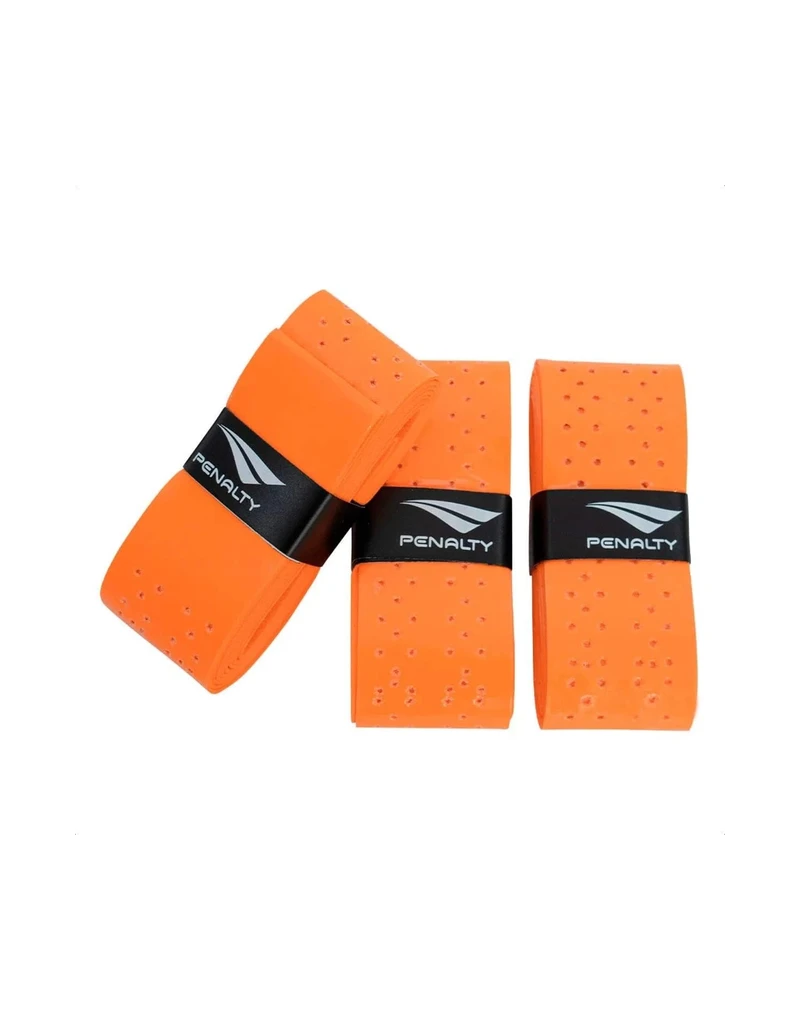
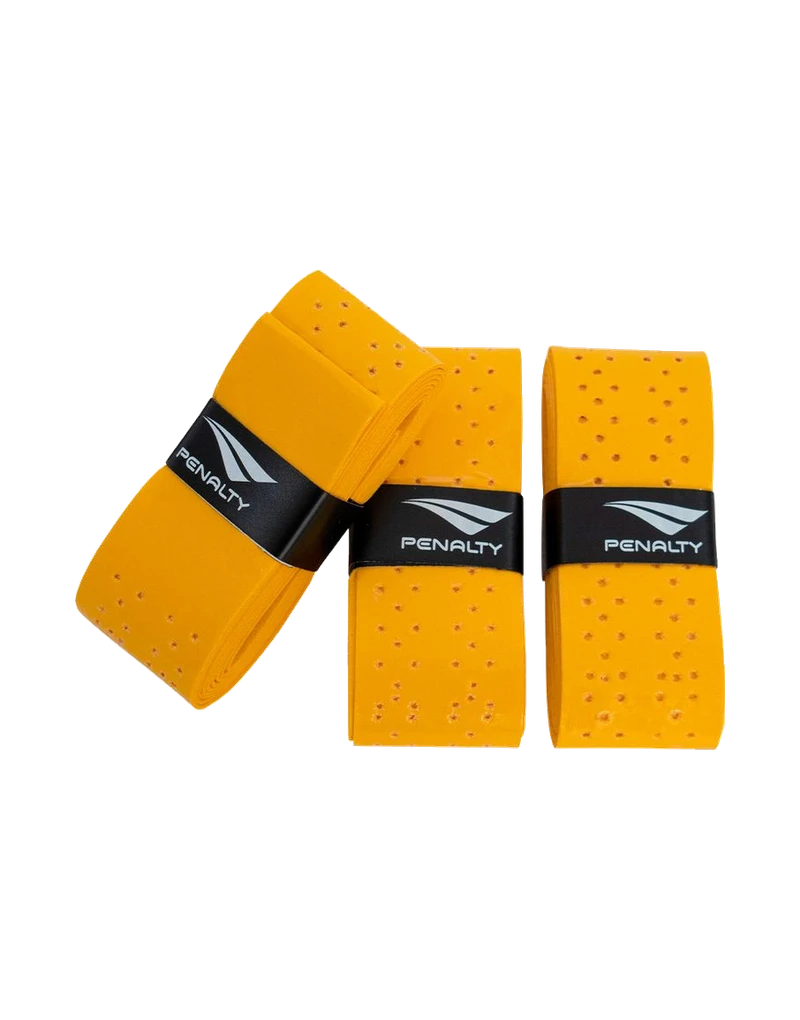
feat(grips): adiciona radar de 3 eixos "Perfil estimado" em /grips/[slug] v0.4.254
GripRadar (Aderencia/Absorcao/Conforto) derivado de tipo + espessura_mm via
formula fixa e documentada no codigo — nao e o motor (calcularMotor() nao
existe pra grips, decisao ja tomada). So calcula e mostra quando os 2 inputs
existem; material nao entra na formula (sem coeficiente real pra isso).

Troca tambem a imagem do Penalty pela foto oficial do site da marca
(penalty.com.br), substituindo a da Amazon usada antes — achado da segunda
passada de pesquisa dos gaps (TBT/Mormaii/Tourna/Penalty).

Changed region(s): [[0.0938, 0.2431, 0.9062, 0.7598]]

diff --git a/components/GripRadar.tsx b/components/GripRadar.tsx
@@ -1,0 +1,111 @@
+const LABELS = ['Aderência', 'Absorção', 'Conforto']
+const COLOR = '#0CC0BE'
+const CX = 130, CY = 130, R = 82, LABEL_R = 112, DOT_R = 8
+const ANGLES = [-90, 30, 150].map(d => (d * Math.PI) / 180)
+const RINGS = [0.25, 0.5, 0.75, 1]
+
+function pt(angle: number, r: number): [number, number] {
+  return [CX + r * Math.cos(angle), CY + r * Math.sin(angle)]
+}
+
+function polyPoints(scores: number[]): string {
+  return scores
+    .map((v, i) => {
+      const [x, y] = pt(ANGLES[i], (v / 10) * R)
+      return `${x.toFixed(1)},${y.toFixed(1)}`
+    })
+    .join(' ')
+}
+
+interface Props {
+  aderencia: number
+  absorcao: number
+  conforto: number
+}
+
+// Radar de 3 eixos pra grips — irmão mais simples do RacketHexagon (6 eixos,
+// scores do motor). Aqui os 3 valores vêm de uma formula documentada (tipo +
+// espessura_mm), não de um motor de verdade — por isso sem o selo de "score
+// forte"/estrela do hexágono de raquete, que implica comparação com o resto
+// do catálogo. O rótulo "Perfil estimado" (no caller) já deixa isso claro.
+export default function GripRadar({ aderencia, absorcao, conforto }: Props) {
+  const scores = [aderencia, absorcao, conforto]
+  const polyPts = polyPoints(scores)
+
+  return (
+    <div className="w-full flex justify-center">
+      <svg viewBox="0 0 260 260" className="w-full max-w-[220px]" overflow="visible" aria-hidden="true">
+        {RINGS.map(frac => (
+          <polygon
+            key={frac}
+            points={ANGLES.map(a => {
+              const [x, y] = pt(a, frac * R)
+              return `${x.toFixed(1)},${y.toFixed(1)}`
+            }).join(' ')}
+            fill="none"
+            stroke="#0E3A40"
+            strokeOpacity={frac === 1 ? 0.14 : 0.07}
+            strokeWidth={frac === 1 ? 1 : 0.75}
+          />
+        ))}
+
+        {ANGLES.map((angle, i) => {
+          const [x, y] = pt(angle, R)
+          return (
+            <line
+              key={i}
+              x1={CX} y1={CY} x2={x} y2={y}
+              stroke="#0E3A40" strokeOpacity={0.08} strokeWidth={0.75}
+            />
+          )
+        })}
+
+        <polygon
+          points={polyPts}
+          fill={COLOR}
+          fillOpacity={0.18}
+          stroke={COLOR}
+          strokeWidth={2}
+          strokeLinejoin="round"
+        />
+
+        {scores.map((v, i) => {
+          const [x, y] = pt(ANGLES[i], (v / 10) * R)
+          return (
+            <g key={i}>
+              <circle cx={x} cy={y} r={DOT_R} fill="white" stroke={COLOR} strokeWidth={1.75} />
+              <text
+                x={x} y={y}
+                textAnchor="middle"
+                dominantBaseline="middle"
+                fontSize={8}
+                fontWeight="800"
+                fill={COLOR}
+              >
+                {v}
+              </text>
+            </g>
+          )
+        })}
+
+        {ANGLES.map((angle, i) => {
+          const [x, y] = pt(angle, LABEL_R)
+          const anchor = x < CX - 8 ? 'end' : x > CX + 8 ? 'start' : 'middle'
+          return (
+            <text
+              key={i}
+              x={x} y={y}
+              textAnchor={anchor}
+              dominantBaseline="middle"
+              fontSize={10}
+              fill="#0E3A40"
+              fillOpacity={0.6}
+            >
+              {LABELS[i]}
+            </text>
+          )
+        })}
+      </svg>
+    </div>
+  )
+}

diff --git a/app/grips/[slug]/page.tsx b/app/grips/[slug]/page.tsx
@@ -4,6 +4,7 @@ import { getSupabaseAdmin } from '@/lib/supabase'
 import { getGripDisplayName } from '@/lib/displayName'
 import SiteNav from '@/components/SiteNav'
 import RacketImageTile from '@/components/RacketImageTile'
+import GripRadar from '@/components/GripRadar'
 
 // Preview de design para Rodrigo revisar o layout público antes de decidir o
 // resto da estratégia de grips (publicação, cross-sell, affiliate_url). Por
@@ -62,6 +63,28 @@ const TIPO_LABEL: Record<string, string> = {
   texturizado: 'Texturizado',
 }
 
+// Radar "Perfil estimado" — NÃO é o motor (calcularMotor() não existe pra
+// grips, decisão já tomada de não construir um). É uma fórmula fixa e
+// documentada com só 2 inputs reais (tipo, espessura_mm), sem usar material
+// como input numérico (não temos coeficiente real de absorção/conforto por
+// material — usar isso seria inventar dado). Só calcula/mostra quando os 2
+// inputs existem; nunca estima o que falta.
+const ADERENCIA_BY_TIPO: Record<string, number> = { tacky: 9, texturizado: 6, dry: 4 }
+const ABSORCAO_BY_TIPO:  Record<string, number> = { tacky: 4, texturizado: 7, dry: 9 }
+
+function confortoFromEspessura(espessuraMm: number): number {
+  const raw = 1 + ((espessuraMm - 0.4) / 0.6) * 9
+  return Math.round(Math.min(10, Math.max(1, raw)))
+}
+
+function buildRadarScores(grip: GripDetail): { aderencia: number; absorcao: number; conforto: number } | null {
+  if (!grip.tipo || grip.espessura_mm == null) return null
+  const aderencia = ADERENCIA_BY_TIPO[grip.tipo]
+  const absorcao = ABSORCAO_BY_TIPO[grip.tipo]
+  if (aderencia == null || absorcao == null) return null
+  return { aderencia, absorcao, conforto: confortoFromEspessura(grip.espessura_mm) }
+}
+
 interface SpecRow { label: string; value: string }
 
 function buildSpecRows(grip: GripDetail): SpecRow[] {
@@ -103,6 +126,7 @@ export default async function GripPage({ params }: { params: Promise<{ slug: str
 
   const displayName = getGripDisplayName({ name: grip.name, brandName: grip.brand?.name })
   const specRows = buildSpecRows(grip)
+  const radarScores = buildRadarScores(grip)
 
   return (
     <div className="min-h-screen sand-texture">
@@ -156,6 +180,17 @@ export default async function GripPage({ params }: { params: Promise<{ slug: str
             >
               Em breve
             </button>
+
+            {/* Perfil estimado — radar de 3 eixos, ver buildRadarScores acima */}
+            {radarScores && (
+              <div className="bg-white rounded-2xl p-5 shadow-card border border-[rgba(14,58,64,0.06)] flex flex-col gap-1">
+                <p className="text-tinta font-semibold text-sm">Perfil estimado</p>
+                <p className="text-tinta/40 text-xs">
+                  Estimativa a partir do tipo e da espessura — não é medição de laboratório.
+                </p>
+                <GripRadar {...radarScores} />
+              </div>
+            )}
 
             {/* Especificações */}
             {specRows.length > 0 && (
